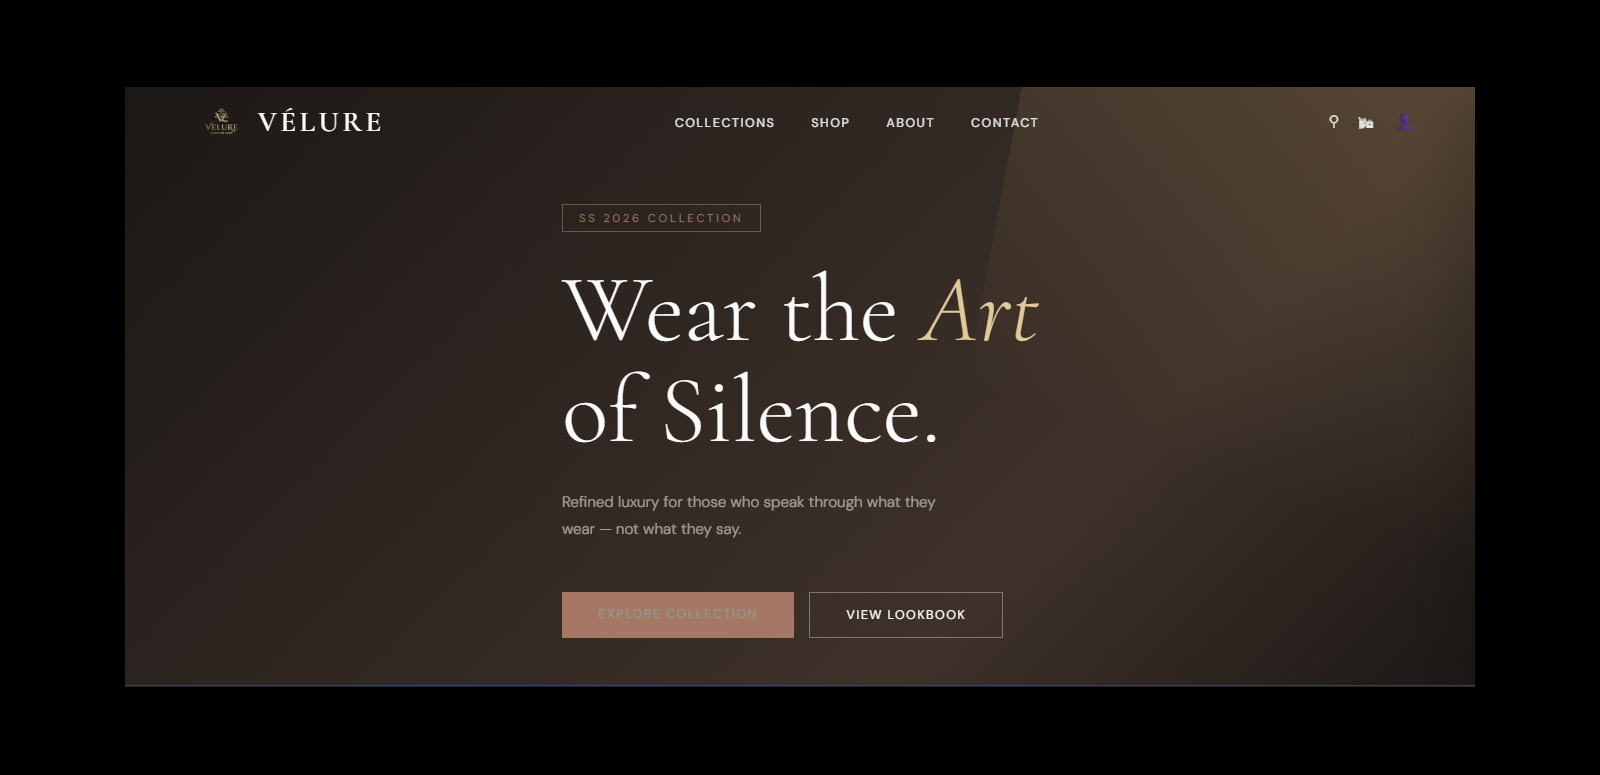
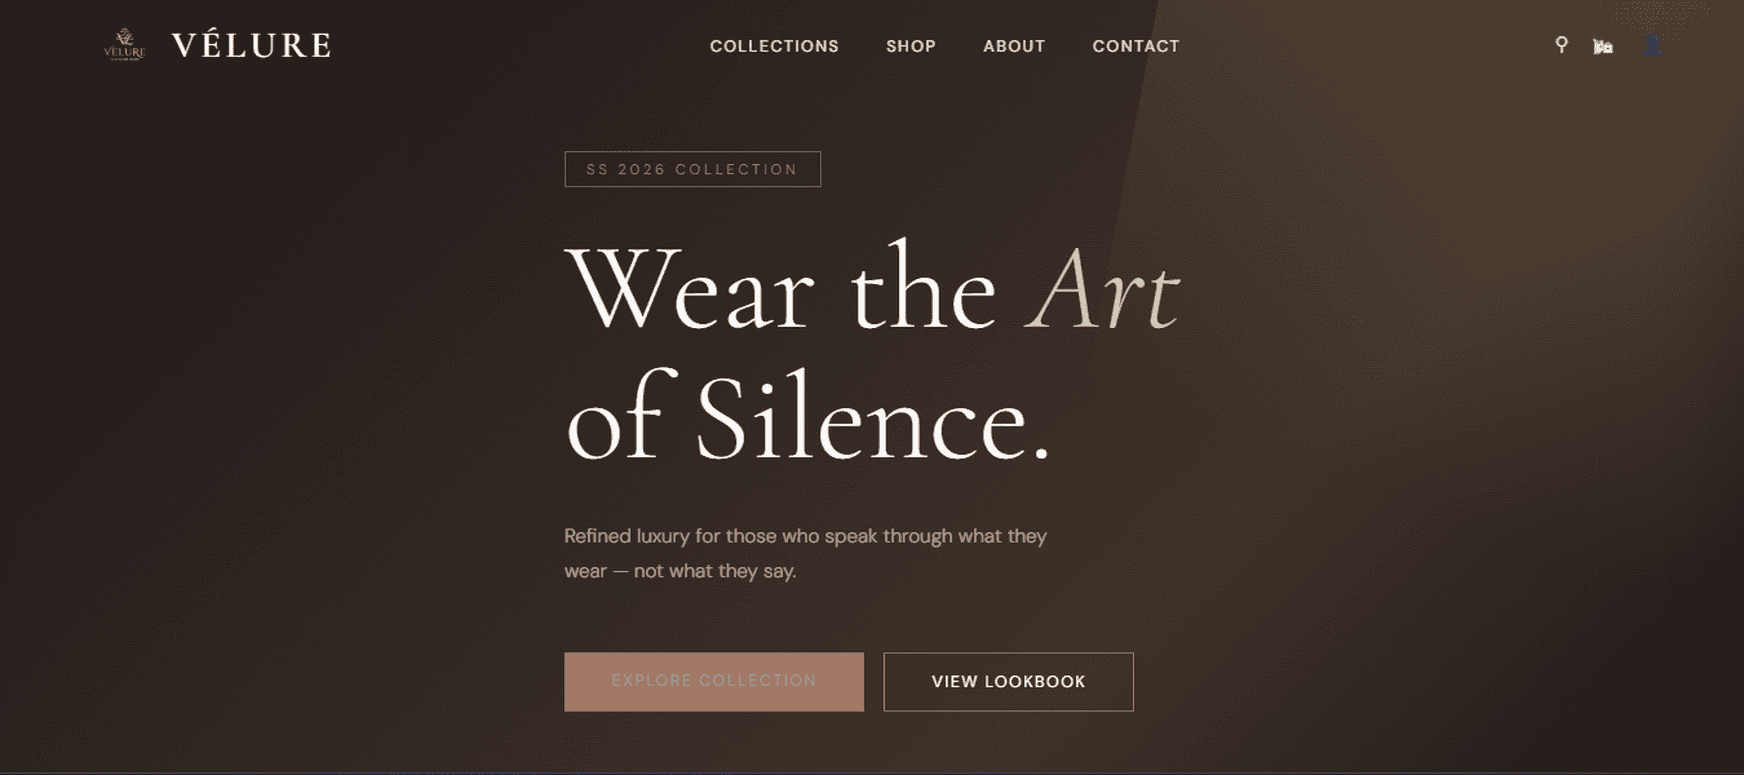
UP

diff --git a/portfolio.html b/portfolio.html
@@ -159,11 +159,11 @@
        <!-- FOOD MART -->
       <div class="col-lg-3 col-md-6 portfolio-item filter-app">
         <div class="portfolio-wrap">
-          <img src="assets/img/portfolio/cloathing.png" class="img-fluid" alt="">
+          <img src="assets/img/portfolio/CLOATHING.png" class="img-fluid" alt="">
           <div class="portfolio-info">
             <h4>Sandaru Food Mart System</h4>
             <div class="portfolio-links">
-              <a href="assets/img/portfolio/cloathing.png" class="portfolio-lightbox">
+              <a href="assets/img/portfolio/CLOATHING.png" class="portfolio-lightbox">
                 <i class="bx bx-show"></i> 
               </a>
               <a href="https://cloathing-shop.vercel.app/index.html#" target="_blank">